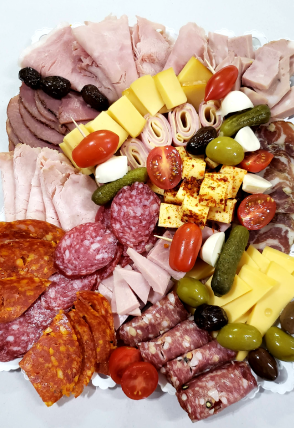
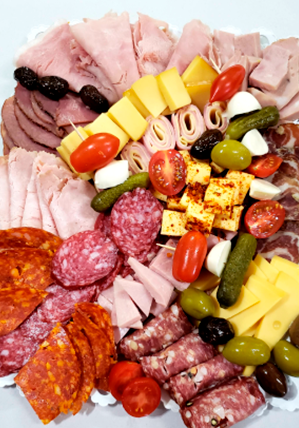
[feature] - agregado carousel y flechas de navegación

diff --git a/index.html b/index.html
@@ -24,7 +24,10 @@
       integrity="sha384-KK94CHFLLe+nY2dmCWGMq91rCGa5gtU4mk92HdvYe+M/SXH301p5ILy+dN9+nJOZ"
       crossorigin="anonymous"
     />
-    <link rel="stylesheet" href="https://unpkg.com/swiper/swiper-bundle.min.css" />
+    <link
+      rel="stylesheet"
+      href="https://unpkg.com/swiper/swiper-bundle.min.css"
+    />
     <link rel="stylesheet" href="./style.css" />
     <title>Plan Picada</title>
   </head>
@@ -176,93 +179,51 @@
           </p>
         </div>
         <div class="container">
-
-          <div class="swiper-container mySwiper">
+          <div class="swiper">
+            <div class="swiper-container mySwiper">
               <div class="swiper-wrapper">
-                  <div class="swiper-slide">
-                      
-                      <div class="card-description">
-                          <div class="card-title">
-                              <h4>Descripción</h4>
-                          </div>
-                          <div class="card-text">
-                              <p>Lorem ipsum dolor sit amet consectetur adipisicing elit. Eum enim possimus dolorum non,
-                                  modi
-                                  sunt ips.</p>
-                          </div>
-                      </div>
-  
-                  </div>
-                  <div class="swiper-slide">
-                   
-                      <div class="card-description">
-                          <div class="card-title">
-                              <h4>Descripción</h4>
-                          </div>
-                          <div class="card-text">
-                              <p>Lorem ipsum dolor sit amet consectetur adipisicing elit. Eum enim possimus dolorum non,
-                                  modi
-                                  sunt ips.</p>
-                          </div>
-                  </div>
+                <div class="swiper-slide">
+                  <img
+                    src="./assets/img/picadas/edit_picada_01.png"
+                    alt="picada_01"
+                  />
+                </div>
+                <div class="swiper-slide">
+                  <img
+                    src="./assets/img/picadas/edit_picada_02.png"
+                    alt="picada_02"
+                  />
+                </div>
+                <div class="swiper-slide">
+                  <img
+                    src="./assets/img/picadas/edit_picada_03.png"
+                    alt="picada_03"
+                  />
+                </div>
+                <div class="swiper-slide">
+                  <img
+                    src="./assets/img/picadas/edit_picada_04.png"
+                    alt="picada_04"
+                  />
+                </div>
+                <div class="swiper-slide">
+                  <img
+                    src="./assets/img/picadas/edit_picada_05.png"
+                    alt="picada_05"
+                  />
+                </div>
+                <div class="swiper-slide">
+                  <img
+                    src="./assets/img/picadas/edit_picada_06.png"
+                    alt="picada_06"
+                  />
+                </div>
               </div>
-                  <div class="swiper-slide">
-                  <div class="card-description">
-                      <div class="card-title">
-                          <h4>Descripción</h4>
-                      </div>
-                      <div class="card-text">
-                          <p>Lorem ipsum dolor sit amet consectetur adipisicing elit. Eum enim possimus dolorum non,
-                              modi
-                              sunt ips.</p>
-                      </div>
-                  </div>
-              </div>
-                  <div class="swiper-slide">
-                    
-                  <div class="card-description">
-                      <div class="card-title">
-                          <h4>Descripción</h4>
-                      </div>
-                      <div class="card-text">
-                          <p>Lorem ipsum dolor sit amet consectetur adipisicing elit. Eum enim possimus dolorum non,
-                              modi
-                              sunt ips.</p>
-                      </div>
-                  </div>
-              </div>
-                  <div class="swiper-slide">
-                    
-                  <div class="card-description">
-                      <div class="card-title">
-                          <h4>Descripción</h4>
-                      </div>
-                      <div class="card-text">
-                          <p>Lorem ipsum dolor sit amet consectetur adipisicing elit. Eum enim possimus dolorum non,
-                              modi
-                              sunt ips.</p>
-                      </div>
-                  </div>
-              </div>
-                  <div class="swiper-slide">
-                      
-                  <div class="card-description">
-                      <div class="card-title">
-                          <h4>Descripción</h4>
-                      </div>
-                      <div class="card-text">
-                          <p>Lorem ipsum dolor sit amet consectetur adipisicing elit. Eum enim possimus dolorum non,
-                              modi
-                              sunt ips.</p>
-                      </div>
-                  </div>
-              </div>
-                  </div>
-              </div>
+            </div>
+            <div class="swiper-button-prev"></div>
+            <div class="swiper-button-next"></div>
           </div>
-          <div class="swiper-button-next"></div>
-          <div class="swiper-button-prev"></div>
-      </div>
+        </div>
       </section>
       <!--VINOS-->
       <section class="sectionBg2" id="vinos">

diff --git a/style.css b/style.css
@@ -122,41 +122,43 @@
 }
 
 .container {
-  width: 90%;
   overflow: hidden;
   padding: 3% 0 5% 0;
+  display: flex;
+  justify-content: center;
 }
+
+.swiper {
+  display: flex;
+  justify-content: center;
+  align-items: center;
+}
+
 .container .swiper-container {
   width: 100%;
   height: 100%;
 }
 .container .swiper-slide {
-  position: relative;
   text-align: center;
-  font-size: 18px;
-  background-image: url("./assets/img/picadas/edit_picada_01.png");
-  border-radius: 15px;
   text-align: start;
-  box-shadow: 0px 4px 4px rgba(196, 196, 196, 0.25);
 }
 
-.container .swiper-slide .card-description {
-  padding: 4rem;
+.container .swiper-slide img {
+  border-radius: 2em;
 }
+
 .container .swiper-slide .card-title,
 .container .swiper-slide .card-text {
   margin-bottom: 0.5rem;
 }
-.container .swiper-slide .card-link {
-  text-align: center;
-}
-.container .swiper-slide .card-link a {
-  text-decoration: none;
-  color: #1d6ce2;
-}
+
 .swiper-button-next {
-  right: 26px !important;
+  right: 0 !important;
 }
 .swiper-button-prev {
-  left: 26px !important;
+  left: 0 !important;
+}
+
+.swiper-hero .swiper-button-prev {
+  --swiper-theme-color: #490909 !important;
 }

diff --git a/index.js b/index.js
@@ -14,7 +14,7 @@ navLinks.forEach(function (navLink) {
 
 //CARRUSEL PICADAS
 
-var swiper = new Swiper(".swiper-container", {
+const swiper = new Swiper(".swiper-container", {
   navigation: {
     nextEl: ".swiper-button-next",
     prevEl: ".swiper-button-prev",
